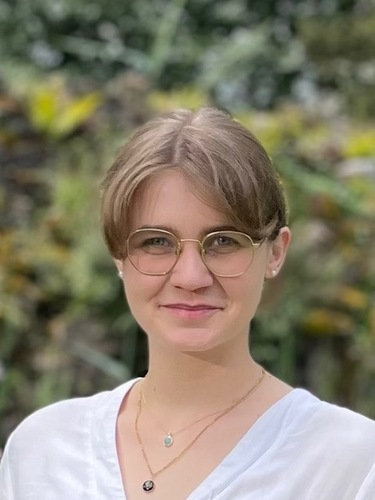
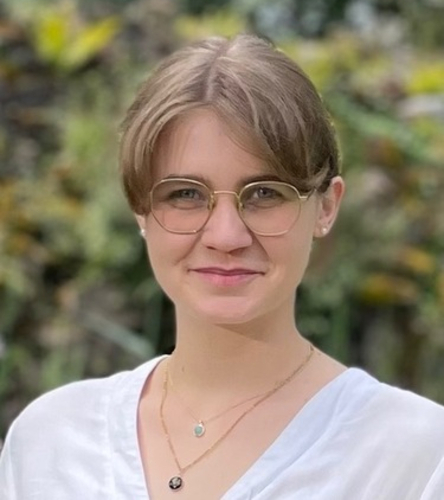
adding Aylin Balmes, and missing image

diff --git a/_speakers26/aylin_balmes.md b/_speakers26/aylin_balmes.md
@@ -1,0 +1,20 @@
+---
+name: Dr Aylin Balmes
+image: aylin_balmes.jpg
+language: german
+---
+
+<div class="speaker-bio">
+Ich bin Aylin und forsche als Postdoktorandin am Institut für Angewandte Physik der Universität Tübingen. Dabei arbeite ich an der Schnittstelle zwischen Biologie und Physik und beschäftige ich mich mit den mechanischen Eigenschaften von Zellen. Insbesondere interessiert mich, wie Zellen ihre Eigenschaften verändern, wenn sie mit verschiedenen Stoffen, zum Beispiel Medikamenten, behandelt werden.
+</div>
+
+<div class="speaker-talk-title">
+    <span class="div-title">{% if page.language == "english" %}TOPIC{% else %}THEMA{% endif %}:</span> 
+Was ist Zellsteifigkeit? Warum ist sie wichtig? Und wie kann man sie messen?
+</div>
+
+<div class="speaker-talk-description">
+Um unseren Körper zu verstehen müssen wir die Eigenschaften unserer Zellen verstehen. Eine davon ist die Zellsteifigkeit – sie beschreibt wie stark eine Zelle durch eine auf sie wirkende Kraft verformt wird. Wichtig ist diese Eigenschaft zum Beispiel in unseren Blutgefäßen. Eine erhöhte Steifigkeit der Blutgefäße ist ein Risikofaktor für Herz-Kreislauf-Erkrankungen. Messen kann man die Steifigkeit von Zellen mit speziellen Mikroskopen, die Zellen kontrolliert verformen.
+
+In unserem Alltag spielt die Steifigkeit übrigens auch eine Rolle. Wenn wir testen möchten wie reif eine Frucht, zum Beispiel eine Avocado, ist drücken wir manchmal mit unserem Finger dagegen und schauen wie viel sie nachgibt – wir messen ihre Steifigkeit.
+</div>

diff --git a/_speakers26/floor_burhoorn.md b/_speakers26/floor_burhoorn.md
@@ -1,5 +1,5 @@
 ---
-name: Floor Burghoorn
+name: Dr Floor Burghoorn
 image: floor_burhoorn.jpg
 language: english
 ---

diff --git a/_speakers26/harini_sudha.md b/_speakers26/harini_sudha.md
@@ -1,6 +1,6 @@
 ---
 name: Harini Sudha
-image: placeholder.jpg
+image: harini_sudha.jpg
 language: english
 ---
 

diff --git a/_speakers26/mayumi_mohan.md b/_speakers26/mayumi_mohan.md
@@ -1,5 +1,5 @@
 ---
-name: Mayumi Mohan
+name: Dr Mayumi Mohan
 image: mayumi_mohan.jpg
 language: english
 ---

diff --git a/_speakers26/lydia_kogler.md b/_speakers26/lydia_kogler.md
@@ -1,5 +1,5 @@
 ---
-name: Lydia Kogler
+name: Dr Lydia Kogler
 image: lydia_kogler.jpg
 language: german
 ---
